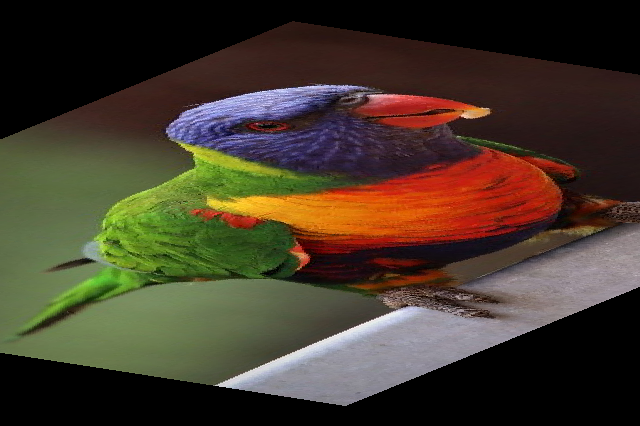
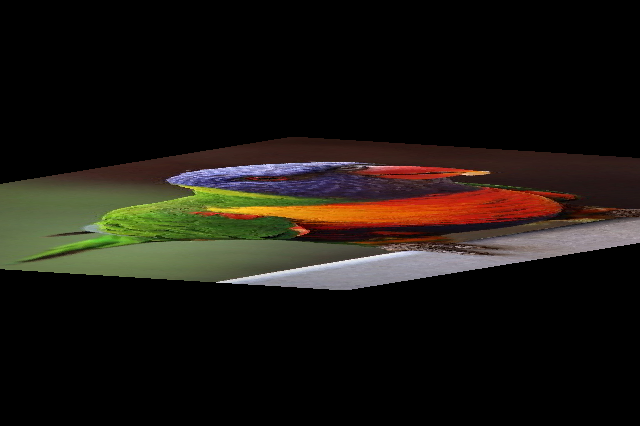
Add monad description

diff --git a/docs/README.md b/docs/README.md
@@ -105,13 +105,13 @@ Because `apply` also gets as input 2 `F`s and returns only one it means that it 
 So what is the difference? Formally none because we can write one in terms of the other + `pure`
 
 <pre>
-    def map2[F[_], A, B, C](fa: F[A], fb: F[B], f: (A, B) => C): F[C] = {
-      val one = ap(pure(f curried))(fa)
-      ap(one)(fb)
-    }
+def map2[F[_], A, B, C](fa: F[A], fb: F[B], f: (A, B) => C): F[C] = {
+  val one = ap(pure(f curried))(fa)
+  ap(one)(fb)
+}
 
-    def apply[A, B](ff: F[A => B])(fa: F[A]): F[B] =
-      map2(ff, fa)((f, a) => f(a))
+def apply[A, B](ff: F[A => B])(fa: F[A]): F[B] =
+  map2(ff, fa)((f, a) => f(a))
 </pre>
 
 So it's clear that both `map2` and `apply` know how to merge F contexts/effects, but what about the difference in signatures?
@@ -158,7 +158,93 @@ Disolve (creates a new images randomly taking color from A or B)
 
 
 ### Monad
-tbd
+[rotate]:https://github.com/adrian-salajan/dimages/blob/master/png/monad/rotate.png?raw=true
+[swirl]:https://github.com/adrian-salajan/dimages/blob/master/png/monad/swirl.png?raw=true
+[whiteStripes]:https://github.com/adrian-salajan/dimages/blob/master/png/monad/whiteStripes.png?raw=true
+[bands]:https://github.com/adrian-salajan/dimages/blob/master/png/monad/bands.png?raw=true
+[combine]:https://github.com/adrian-salajan/dimages/blob/master/png/monad/combine.png?raw=true
+
+A monad is composed of 3 things:
+1. A context/wrapper over a generic value A.
+2. A function which can wrap any value `A` with the context `F`. (A monad is also an applicative)
+3. either of the functions:
+ * flatMap `flatMap(fa: F[A], f: a => F[B]): F[B]`
+ * map + flatten `flatten(fa: F[F[A]]): F[A]`
+
+#### FlatMap
+This takes a value in a context and a function `f` from a value to a value in a context and returns its result.
+It seems a bit strange that `f` returns a `F[B]` not just a `B` (as the functor's map), so unlike the functor this is not
+just a simple transformation of `F[A]`, it's a transformation + a new `F` context effect.
+
+If applicative lets us merge effects then `flatMap` provides the ability to chain new effects having the original wrapped value as input.
+
+#### Flatten
+`flatten(fa: F[F[A]]): F[A]`
+
+This is merging effects. The difference from applicative, these are "serial" effects `F[F[A]]`
+while applicative merges parallel effects in `map2(a: F[A], b: F[B], f: (A, B) => C): F[C]`
+
+#### FlatMap vs Flatten
+
+These are equivalent
+
+<pre>
+def flatMap[F[_], A, B](fa: F[A])(f: A => F[B]): F[B] = flatten(map(fa, f))
+
+def flatten[F[_], A](ffa: F[F[A]]): F[A] = flatMap(ffa)(a => a)
+</pre>
+
+#### Monad on Images
+
+Before I implemented Monad on Images it was very unclear how it would be useful.
+
+with Image[Color] flapMap looks as
+`flatMap(fa: Image[Color], f: color => Image[Color]): Image[Color]`
+so given a color image, from each color build an image and somehow return a single image back? Well apparently yes.
+<pre>
+def flatMap[A, B](fa: Image[A])(f: A => Image[B]): Image[B] = new Image[B] ({
+      loc =>
+        val img: Image[B] = f(fa.im(loc))
+        img.im(loc)
+})
+</pre>
+
+The implementation returns a new image, which for each pixel/Location returns the color of f's Image[B] at that location,
+and since f has the power to build new images, it can decide each location what color it has, it can be the original input color or completely different.
+
+Functor and Applicative let us modify images by doing transformations only based on their colors,
+while Monad provides the ability to do transformations based on both color and location (or color at a location)
+
+This finally gives the power of doing geometric transformations on images, because we can access through location different parts of the image.
+
+Geometric transformations: rotate + scale + translate
+
+![rotate][rotate]
+
+Geometric transformation: swirl
+
+![swirl][swirl]
+
+Combine two images based on location (middle x axis)
+
+![combine][combine]
+
+Return different colors based on location (every X pixels return white instead of the original color)
+
+![whiteStripes][whiteStripes]
+
+Return colors of the same image but from other locations
+
+![bands][bands]
+
+
+
+
+
+
+
+
+
 
 
 
